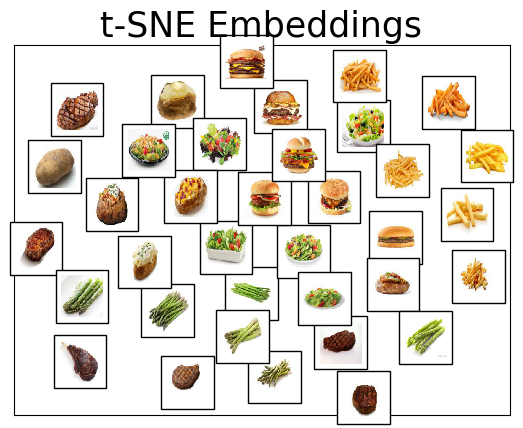
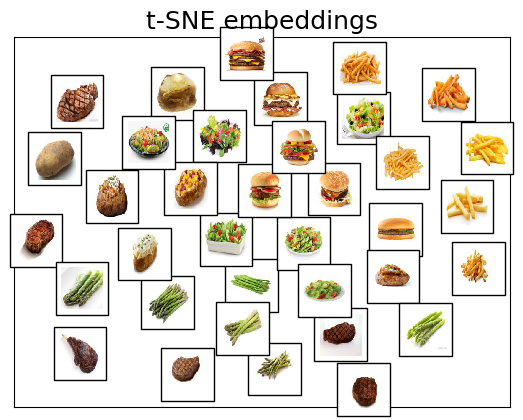
readme

Changed region(s): [[0.0, 0.0, 1.0, 0.9905], [0.7648, 0.9595, 0.979, 0.9905]]

diff --git a/image_retrieval/src/CV_plot_utils.py b/image_retrieval/src/CV_plot_utils.py
@@ -80,11 +80,11 @@ def plot_tsne(X, imgs, outFile):
 
         plt.xticks([]), plt.yticks([])
         if title is not None:
-            plt.title(title, fontsize=25)
+            plt.title(title, fontsize=18)
 
     tsne = manifold.TSNE(n_components=2, init='pca', random_state=0)
     X_tsne = tsne.fit_transform(X)
-    plot_embedding(X_tsne, imgs, "t-SNE Embeddings")
+    plot_embedding(X_tsne, imgs, "t-SNE embeddings")
     if outFile is None:
         plt.show()
     else:

diff --git a/image_retrieval/README.md b/image_retrieval/README.md
@@ -46,8 +46,6 @@ We train both a simple autoencoder and a convolutional autoencoder on our databa
 <img src="coverart/convAE_tsne.png" width="40%">
 </p> 
 
-Image Reconstructions
-
 <p align="center"> 
 <img src="coverart/convAE_reconstruct.png" width="60%">
 </p>
@@ -63,8 +61,6 @@ Image Reconstructions
 <p align="center"> 
 <img src="coverart/simpleAE_tsne.png" width="40%">
 </p> 
-
-Image Reconstructions
 
 <p align="center"> 
 <img src="coverart/simpleAE_reconstruct.png" width="60%">
